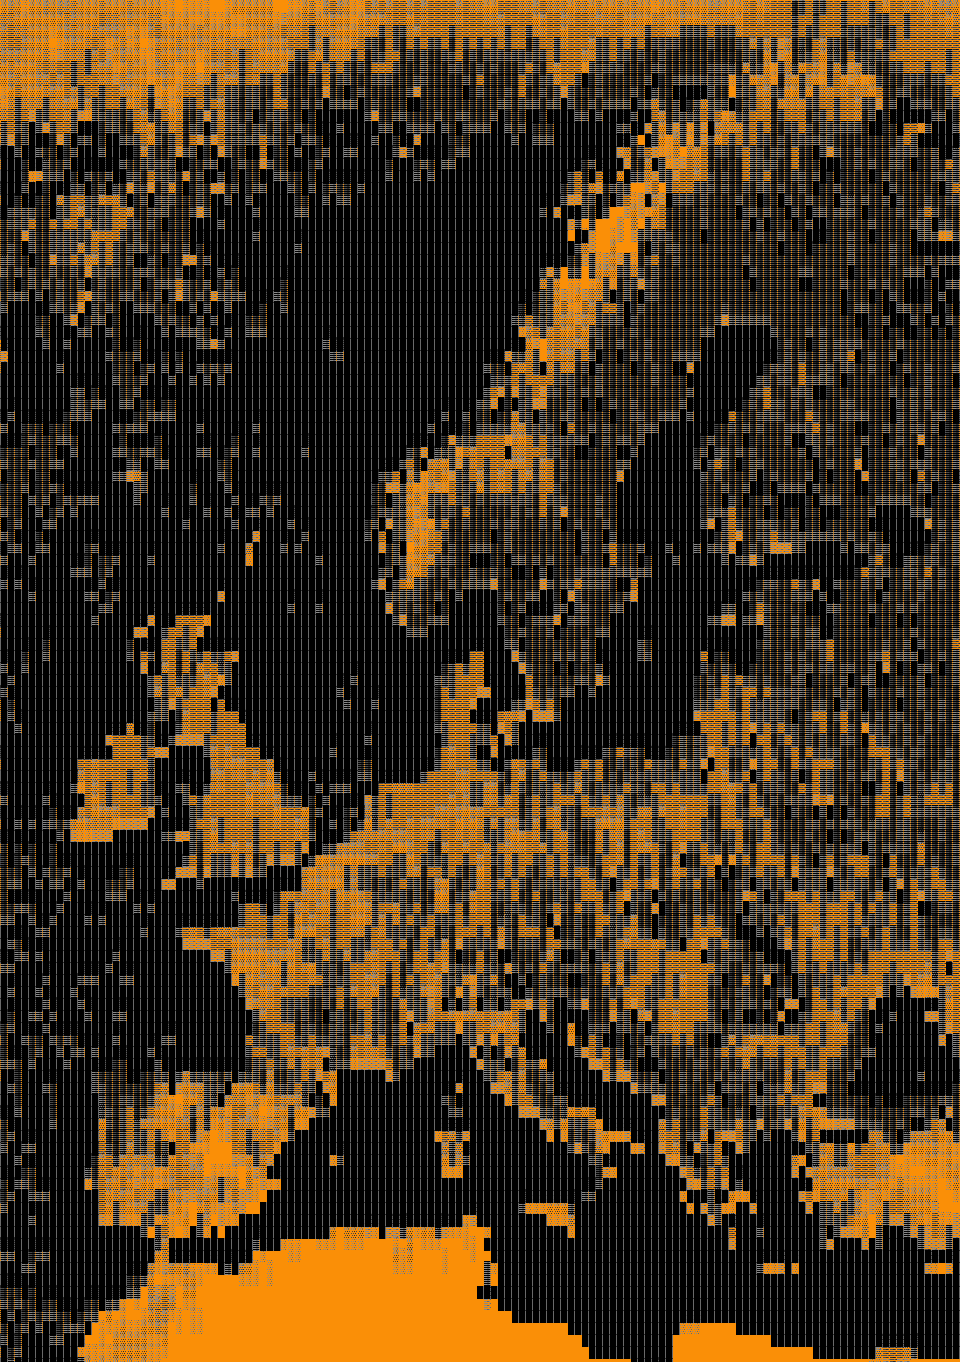
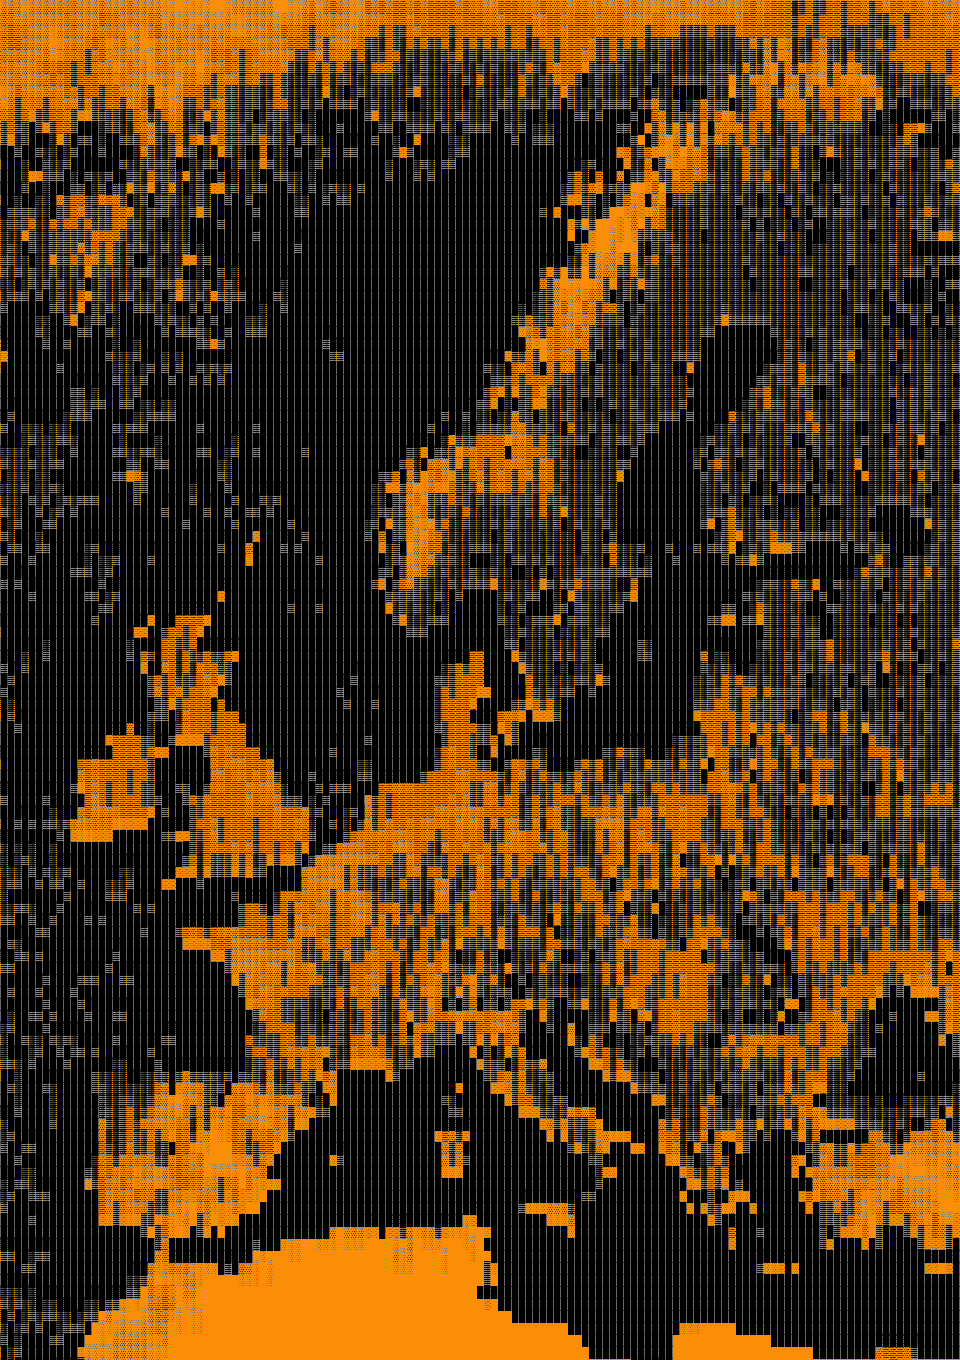
Add files via upload

diff --git a/about.html b/about.html
@@ -207,10 +207,56 @@
 				margin-top: 1.8%;
 				border-left: 2px dotted #f5730a;
 				height: 80%;
-				width:45%;
+			}
+			
+			.eu {
+				float: right;
+				margin-right: 10%;
+				margin-left: 4%;
+				margin-top: 1.8%;
+				width: 31%;
 			}
 			
 			.europe{
+				max-width: 100%
+			}
+			
+			.myhome{
+				text-align: center;
+				font-family: "sharppc3k";
+				margin: 0px;
+				font-size: 0.90vw;
+				padding-top: 8px;
+				padding-bottom: 4px;
+				margin-bottom: 2%;
+				background-color:#e13a5a;
+				color: #18140f;
+				
+			}
+			
+			th {
+				background-color: #18140f;
+				text-align: center; 
+				vertical-align: middle;
+				color: #f5730a;
+			}
+
+			th {
+				border: 2px dotted #f5730a;
+			}
+			
+			td {
+				border: 2px dotted #f5730a;
+				text-align: left;
+				width: 80%;
+			}
+
+			table {
+				float: right;
+				font-size: 0.90vw;
+				color: #f5730a;
+				height: 50%;
+				overflow: auto; 
 			}
 			
 		</style>	
@@ -244,9 +290,24 @@
 			</div>
 			
 			<div class="undermenulineLEFT"></div> <div class="undermenulineRIGHT"></div>
+
+			<!-- EUROPE -->	
 			
+			<div class="eu">
 			
-			<!-- <div class="europe"> <img class="tk" src="img/asciiart3.png" align="right"> </div> -->	
+				<table>
+					<tbody>
+					
+						<div class="myhome">Hey I live here!</div>
+						
+						<tr>
+							<th width="19%">  C <br> O <br> N <br> T <br> I <br> N <br> E <br> N <br> T <br> A <br> L <br> <br> E <br> U <br> R <br> O <br> P <br> E <br> <br> ~~ <br> C <br> E <br> T <br> <br> P <br> L</th>
+							<td><img class="europe" src="img/asciiart3.png"></td>
+						</tr>
+					</tbody>
+				</table>
+			
+			</div>
 			
 			<div class="dotted-vertical-line"></div>
 		

diff --git a/index.html b/index.html
@@ -378,7 +378,7 @@
 			
 				<div class="logsdate" style="color:#E13A5A;"> &lt;&lt; 11.02.2024 &gt;&gt;</div>
 				<div class="logs"> 
-					Changes to colour palette.
+					Changes to colour palette, added image of Europe to the 'About' section making the page now complete.
 				</div>
 			
 				<div class="logsdate" style="color:#E13A5A;"> &lt;&lt; 10.02.2024 &gt;&gt;</div>
